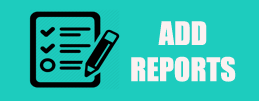
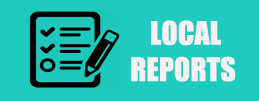
view completed except ot and field report

Changed region(s): [[0.556, 0.1782, 0.8649, 0.4752]]

diff --git a/src/view/AppInterface.java b/src/view/AppInterface.java
@@ -315,7 +315,7 @@ public class AppInterface extends javax.swing.JFrame {
             jPanel2Layout.createParallelGroup(javax.swing.GroupLayout.Alignment.LEADING)
             .addGroup(jPanel2Layout.createSequentialGroup()
                 .addContainerGap()
-                .addComponent(jLabel2, javax.swing.GroupLayout.DEFAULT_SIZE, 1599, Short.MAX_VALUE)
+                .addComponent(jLabel2, javax.swing.GroupLayout.DEFAULT_SIZE, javax.swing.GroupLayout.DEFAULT_SIZE, Short.MAX_VALUE)
                 .addContainerGap())
             .addGroup(jPanel2Layout.createSequentialGroup()
                 .addGap(138, 138, 138)
@@ -356,10 +356,10 @@ public class AppInterface extends javax.swing.JFrame {
         });
 
         jLabel3.setFont(new java.awt.Font("Tahoma", 1, 24)); // NOI18N
-        jLabel3.setText("View Reports");
+        jLabel3.setText("Online Reports");
 
         jLabel4.setFont(new java.awt.Font("Tahoma", 1, 24)); // NOI18N
-        jLabel4.setText("Add Reports");
+        jLabel4.setText("Local Reports");
 
         jLabel11.setFont(new java.awt.Font("Tahoma", 1, 24)); // NOI18N
         jLabel11.setText("Main Menu");
@@ -374,17 +374,16 @@ public class AppInterface extends javax.swing.JFrame {
                         .addGap(322, 322, 322)
                         .addComponent(mainmenuvr))
                     .addGroup(mainmenucardLayout.createSequentialGroup()
-                        .addGap(392, 392, 392)
+                        .addGap(378, 378, 378)
                         .addComponent(jLabel3)))
-                .addPreferredGap(javax.swing.LayoutStyle.ComponentPlacement.RELATED, 62, Short.MAX_VALUE)
+                .addPreferredGap(javax.swing.LayoutStyle.ComponentPlacement.RELATED, 340, Short.MAX_VALUE)
                 .addGroup(mainmenucardLayout.createParallelGroup(javax.swing.GroupLayout.Alignment.LEADING)
-                    .addGroup(mainmenucardLayout.createSequentialGroup()
-                        .addGap(279, 279, 279)
-                        .addComponent(mainmenuar))
-                    .addGroup(mainmenucardLayout.createSequentialGroup()
-                        .addGap(350, 350, 350)
-                        .addComponent(jLabel4, javax.swing.GroupLayout.PREFERRED_SIZE, 172, javax.swing.GroupLayout.PREFERRED_SIZE)))
-                .addGap(371, 371, 371))
+                    .addGroup(javax.swing.GroupLayout.Alignment.TRAILING, mainmenucardLayout.createSequentialGroup()
+                        .addComponent(mainmenuar)
+                        .addGap(371, 371, 371))
+                    .addGroup(javax.swing.GroupLayout.Alignment.TRAILING, mainmenucardLayout.createSequentialGroup()
+                        .addComponent(jLabel4, javax.swing.GroupLayout.PREFERRED_SIZE, 172, javax.swing.GroupLayout.PREFERRED_SIZE)
+                        .addGap(426, 426, 426))))
             .addGroup(mainmenucardLayout.createSequentialGroup()
                 .addGap(691, 691, 691)
                 .addComponent(jLabel11)
@@ -411,7 +410,7 @@ public class AppInterface extends javax.swing.JFrame {
         addreportscard.setBackground(new java.awt.Color(204, 255, 204));
 
         jLabel13.setFont(new java.awt.Font("Tahoma", 1, 24)); // NOI18N
-        jLabel13.setText("Add Reports");
+        jLabel13.setText("Local Reports");
 
         btnaddusertable.setIcon(new javax.swing.ImageIcon(getClass().getResource("/images/buttonadddata.png"))); // NOI18N
         btnaddusertable.addActionListener(new java.awt.event.ActionListener() {
@@ -435,13 +434,13 @@ public class AppInterface extends javax.swing.JFrame {
         });
 
         jLabel17.setFont(new java.awt.Font("Tahoma", 1, 24)); // NOI18N
-        jLabel17.setText("Add Employee Table");
+        jLabel17.setText("Employee Table");
 
         jLabel18.setFont(new java.awt.Font("Tahoma", 1, 24)); // NOI18N
-        jLabel18.setText("Add Attendance Table");
+        jLabel18.setText("Attendance Table");
 
         jLabel19.setFont(new java.awt.Font("Tahoma", 1, 24)); // NOI18N
-        jLabel19.setText("Add OT Table");
+        jLabel19.setText("OT Table");
 
         btnaddleavetable1.setIcon(new javax.swing.ImageIcon(getClass().getResource("/images/buttonadddata.png"))); // NOI18N
         btnaddleavetable1.addActionListener(new java.awt.event.ActionListener() {
@@ -461,7 +460,7 @@ public class AppInterface extends javax.swing.JFrame {
         });
 
         jLabel22.setFont(new java.awt.Font("Tahoma", 1, 24)); // NOI18N
-        jLabel22.setText("Add Leave Table");
+        jLabel22.setText("Leave Table");
 
         javax.swing.GroupLayout addreportscardLayout = new javax.swing.GroupLayout(addreportscard);
         addreportscard.setLayout(addreportscardLayout);
@@ -474,33 +473,34 @@ public class AppInterface extends javax.swing.JFrame {
                         .addGroup(addreportscardLayout.createParallelGroup(javax.swing.GroupLayout.Alignment.TRAILING)
                             .addGroup(addreportscardLayout.createSequentialGroup()
                                 .addComponent(jLabel17)
-                                .addGap(98, 98, 98)
+                                .addGap(151, 151, 151)
                                 .addComponent(jLabel18)
-                                .addGap(15, 15, 15))
+                                .addGap(38, 38, 38))
                             .addGroup(addreportscardLayout.createSequentialGroup()
                                 .addComponent(btnaddusertable, javax.swing.GroupLayout.PREFERRED_SIZE, 289, javax.swing.GroupLayout.PREFERRED_SIZE)
                                 .addGap(60, 60, 60)
                                 .addComponent(btnaddattendancetable, javax.swing.GroupLayout.PREFERRED_SIZE, 289, javax.swing.GroupLayout.PREFERRED_SIZE)))
-                        .addGroup(addreportscardLayout.createParallelGroup(javax.swing.GroupLayout.Alignment.TRAILING)
+                        .addGroup(addreportscardLayout.createParallelGroup(javax.swing.GroupLayout.Alignment.TRAILING, false)
                             .addGroup(addreportscardLayout.createSequentialGroup()
                                 .addGap(56, 56, 56)
                                 .addComponent(btnaddleavetable1, javax.swing.GroupLayout.PREFERRED_SIZE, 289, javax.swing.GroupLayout.PREFERRED_SIZE)
                                 .addGap(64, 64, 64)
                                 .addComponent(btnaddot, javax.swing.GroupLayout.PREFERRED_SIZE, 289, javax.swing.GroupLayout.PREFERRED_SIZE))
-                            .addGroup(javax.swing.GroupLayout.Alignment.LEADING, addreportscardLayout.createSequentialGroup()
-                                .addGap(113, 113, 113)
+                            .addGroup(addreportscardLayout.createSequentialGroup()
+                                .addGap(130, 130, 130)
                                 .addComponent(jLabel22)
-                                .addGap(170, 170, 170)
-                                .addComponent(jLabel19))))
-                    .addGroup(addreportscardLayout.createSequentialGroup()
-                        .addGap(705, 705, 705)
-                        .addComponent(jLabel13))
+                                .addPreferredGap(javax.swing.LayoutStyle.ComponentPlacement.RELATED, javax.swing.GroupLayout.DEFAULT_SIZE, Short.MAX_VALUE)
+                                .addComponent(jLabel19)
+                                .addGap(92, 92, 92))))
                     .addGroup(addreportscardLayout.createSequentialGroup()
                         .addGap(654, 654, 654)
                         .addComponent(btnaddnotes, javax.swing.GroupLayout.PREFERRED_SIZE, 289, javax.swing.GroupLayout.PREFERRED_SIZE))
                     .addGroup(addreportscardLayout.createSequentialGroup()
                         .addGap(620, 620, 620)
-                        .addComponent(jLabel20)))
+                        .addComponent(jLabel20))
+                    .addGroup(addreportscardLayout.createSequentialGroup()
+                        .addGap(710, 710, 710)
+                        .addComponent(jLabel13)))
                 .addContainerGap(125, Short.MAX_VALUE))
         );
         addreportscardLayout.setVerticalGroup(
@@ -523,7 +523,7 @@ public class AppInterface extends javax.swing.JFrame {
                             .addComponent(btnaddleavetable1, javax.swing.GroupLayout.PREFERRED_SIZE, 283, javax.swing.GroupLayout.PREFERRED_SIZE)
                             .addComponent(btnaddot, javax.swing.GroupLayout.PREFERRED_SIZE, 283, javax.swing.GroupLayout.PREFERRED_SIZE))
                         .addGap(18, 18, 18)
-                        .addGroup(addreportscardLayout.createParallelGroup(javax.swing.GroupLayout.Alignment.LEADING)
+                        .addGroup(addreportscardLayout.createParallelGroup(javax.swing.GroupLayout.Alignment.BASELINE)
                             .addComponent(jLabel19, javax.swing.GroupLayout.PREFERRED_SIZE, 45, javax.swing.GroupLayout.PREFERRED_SIZE)
                             .addComponent(jLabel22, javax.swing.GroupLayout.PREFERRED_SIZE, 45, javax.swing.GroupLayout.PREFERRED_SIZE))
                         .addGap(0, 0, Short.MAX_VALUE)))
@@ -1295,19 +1295,19 @@ public class AppInterface extends javax.swing.JFrame {
         });
 
         jLabel23.setFont(new java.awt.Font("Tahoma", 1, 24)); // NOI18N
-        jLabel23.setText("View Employee Table");
+        jLabel23.setText("Employee Table");
 
         jLabel24.setFont(new java.awt.Font("Tahoma", 1, 24)); // NOI18N
-        jLabel24.setText("View Attendance Table");
+        jLabel24.setText("Attendance Table");
 
         jLabel25.setFont(new java.awt.Font("Tahoma", 1, 24)); // NOI18N
-        jLabel25.setText("View Leave Table");
+        jLabel25.setText("Leave Table");
 
         jLabel26.setFont(new java.awt.Font("Tahoma", 1, 24)); // NOI18N
-        jLabel26.setText("View OT Table");
+        jLabel26.setText("OT Table");
 
         jLabel27.setFont(new java.awt.Font("Tahoma", 1, 24)); // NOI18N
-        jLabel27.setText("View Reports");
+        jLabel27.setText("Online Reports");
 
         btnviewattt.setIcon(new javax.swing.ImageIcon(getClass().getResource("/images/viewreportbutton.png"))); // NOI18N
         btnviewattt.addActionListener(new java.awt.event.ActionListener() {
@@ -1334,20 +1334,20 @@ public class AppInterface extends javax.swing.JFrame {
                             .addGroup(javax.swing.GroupLayout.Alignment.TRAILING, viewreportscardLayout.createSequentialGroup()
                                 .addContainerGap()
                                 .addComponent(jLabel23)
-                                .addGap(79, 79, 79)))
-                        .addGroup(viewreportscardLayout.createParallelGroup(javax.swing.GroupLayout.Alignment.TRAILING)
-                            .addComponent(jLabel24, javax.swing.GroupLayout.PREFERRED_SIZE, 281, javax.swing.GroupLayout.PREFERRED_SIZE)
-                            .addComponent(btnviewattt, javax.swing.GroupLayout.PREFERRED_SIZE, 289, javax.swing.GroupLayout.PREFERRED_SIZE))
+                                .addGap(116, 116, 116)))
                         .addGroup(viewreportscardLayout.createParallelGroup(javax.swing.GroupLayout.Alignment.LEADING)
                             .addGroup(viewreportscardLayout.createSequentialGroup()
+                                .addComponent(btnviewattt, javax.swing.GroupLayout.PREFERRED_SIZE, 289, javax.swing.GroupLayout.PREFERRED_SIZE)
                                 .addGap(54, 54, 54)
                                 .addComponent(viewleat, javax.swing.GroupLayout.PREFERRED_SIZE, 289, javax.swing.GroupLayout.PREFERRED_SIZE)
                                 .addGap(57, 57, 57)
                                 .addComponent(viewott, javax.swing.GroupLayout.PREFERRED_SIZE, 289, javax.swing.GroupLayout.PREFERRED_SIZE))
                             .addGroup(viewreportscardLayout.createSequentialGroup()
-                                .addGap(103, 103, 103)
+                                .addGap(39, 39, 39)
+                                .addComponent(jLabel24, javax.swing.GroupLayout.PREFERRED_SIZE, 222, javax.swing.GroupLayout.PREFERRED_SIZE)
+                                .addGap(155, 155, 155)
                                 .addComponent(jLabel25)
-                                .addGap(154, 154, 154)
+                                .addGap(227, 227, 227)
                                 .addComponent(jLabel26))))
                     .addGroup(viewreportscardLayout.createSequentialGroup()
                         .addGap(719, 719, 719)
@@ -1374,9 +1374,10 @@ public class AppInterface extends javax.swing.JFrame {
                             .addComponent(viewott, javax.swing.GroupLayout.PREFERRED_SIZE, 283, javax.swing.GroupLayout.PREFERRED_SIZE))
                         .addGap(18, 18, 18)
                         .addGroup(viewreportscardLayout.createParallelGroup(javax.swing.GroupLayout.Alignment.LEADING)
-                            .addComponent(jLabel25, javax.swing.GroupLayout.PREFERRED_SIZE, 52, javax.swing.GroupLayout.PREFERRED_SIZE)
                             .addComponent(jLabel24, javax.swing.GroupLayout.PREFERRED_SIZE, 52, javax.swing.GroupLayout.PREFERRED_SIZE)
-                            .addComponent(jLabel26, javax.swing.GroupLayout.PREFERRED_SIZE, 52, javax.swing.GroupLayout.PREFERRED_SIZE))
+                            .addGroup(viewreportscardLayout.createParallelGroup(javax.swing.GroupLayout.Alignment.BASELINE)
+                                .addComponent(jLabel26, javax.swing.GroupLayout.PREFERRED_SIZE, 52, javax.swing.GroupLayout.PREFERRED_SIZE)
+                                .addComponent(jLabel25, javax.swing.GroupLayout.PREFERRED_SIZE, 52, javax.swing.GroupLayout.PREFERRED_SIZE)))
                         .addPreferredGap(javax.swing.LayoutStyle.ComponentPlacement.RELATED)
                         .addComponent(viewfopt, javax.swing.GroupLayout.PREFERRED_SIZE, 283, javax.swing.GroupLayout.PREFERRED_SIZE))
                     .addGroup(viewreportscardLayout.createSequentialGroup()
